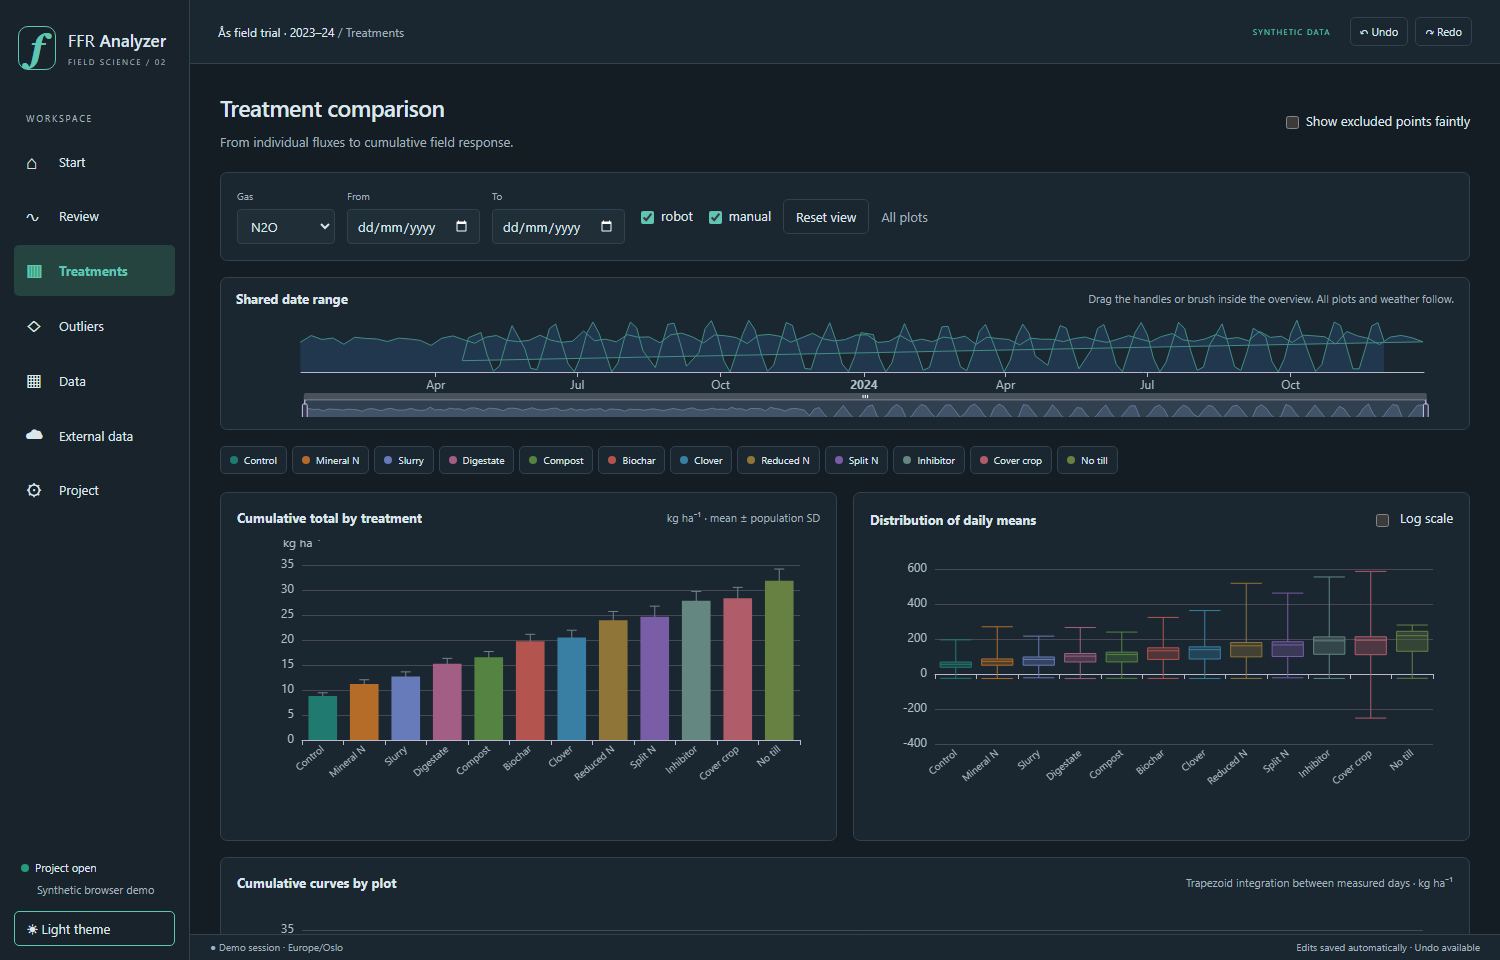
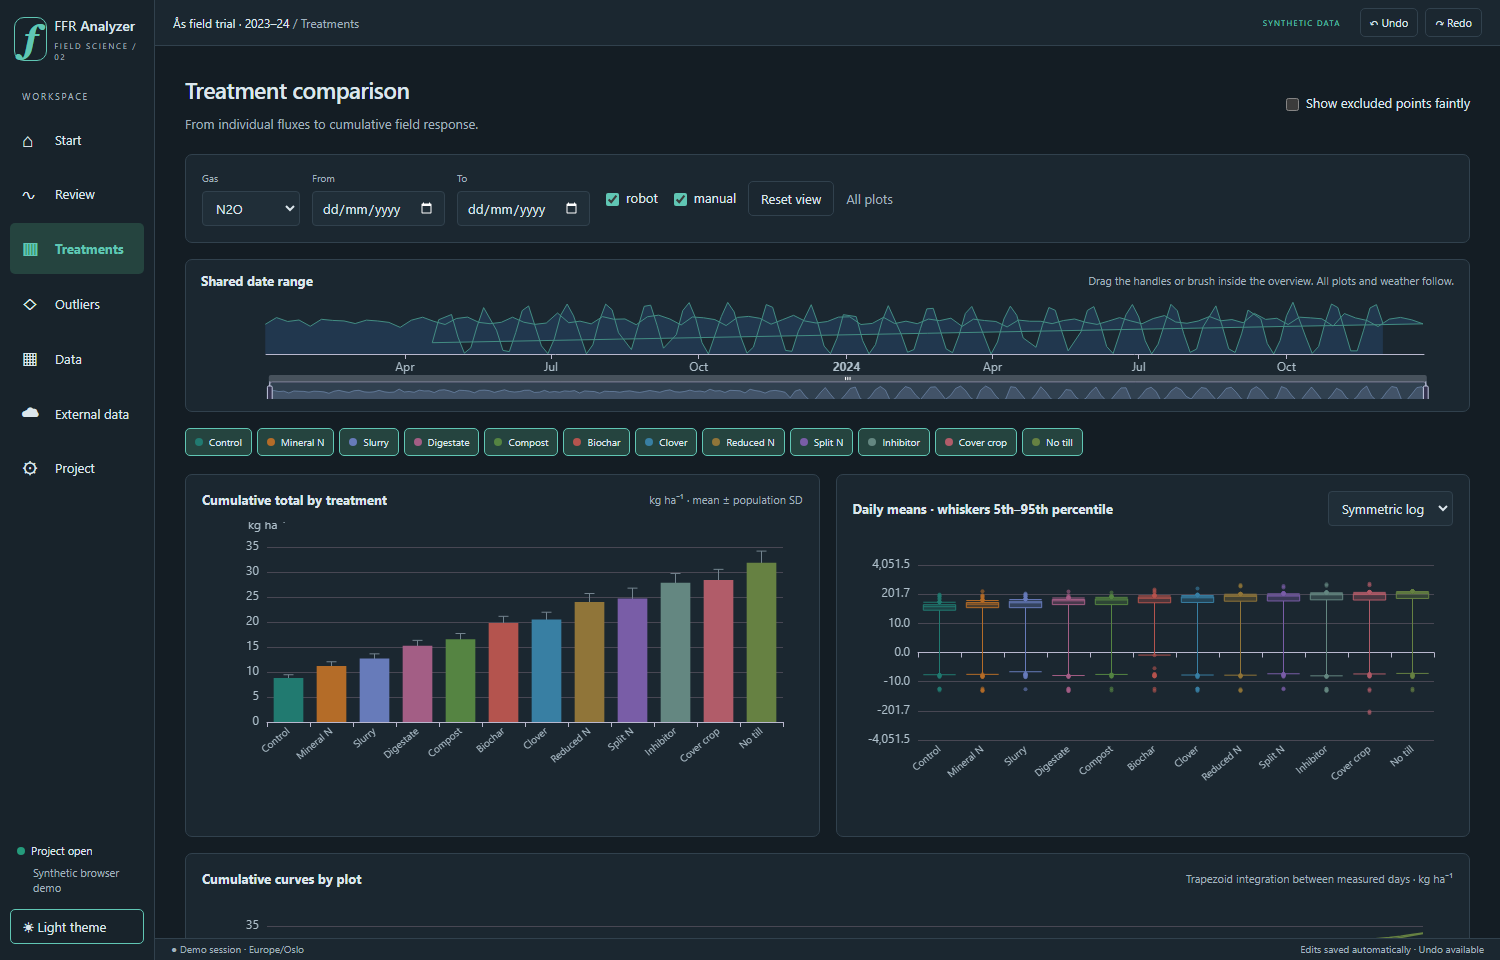
Format review header and treatment outliers; refresh synthetic screenshots

diff --git a/app/src/screens/review/index.tsx b/app/src/screens/review/index.tsx
@@ -368,7 +368,14 @@ export function Review() {
             {flux ? (
               <>
                 <h2>
-                  {/^(plot\b|P\d)/i.test(flux.plotLabel) ? flux.plotLabel : "Plot " + flux.plotLabel} · {flux.treatmentName} · {flux.source === "manual" ? "manual measurement" : flux.side + " chamber"} · {dateTime(flux.time)}
+                  {/^(plot\b|P\d)/i.test(flux.plotLabel)
+                    ? flux.plotLabel
+                    : "Plot " + flux.plotLabel}{" "}
+                  · {flux.treatmentName} ·{" "}
+                  {flux.source === "manual"
+                    ? "manual measurement"
+                    : flux.side + " chamber"}{" "}
+                  · {dateTime(flux.time)}
                 </h2>
                 <small className="filename" title={flux.filename}>
                   {flux.filename}

diff --git a/app/src/screens/treatments/index.tsx b/app/src/screens/treatments/index.tsx
@@ -423,7 +423,11 @@ export function Treatments() {
                                 v.value < dist.box[0] || v.value > dist.box[4],
                             )
                             .map((v) => ({
-                              value: [i, transformed(v.value,boxScale), v.fluxId],
+                              value: [
+                                i,
+                                transformed(v.value, boxScale),
+                                v.fluxId,
+                              ],
                               itemStyle: { color: ts[i].colour, opacity: 0.6 },
                             })),
                         ),
